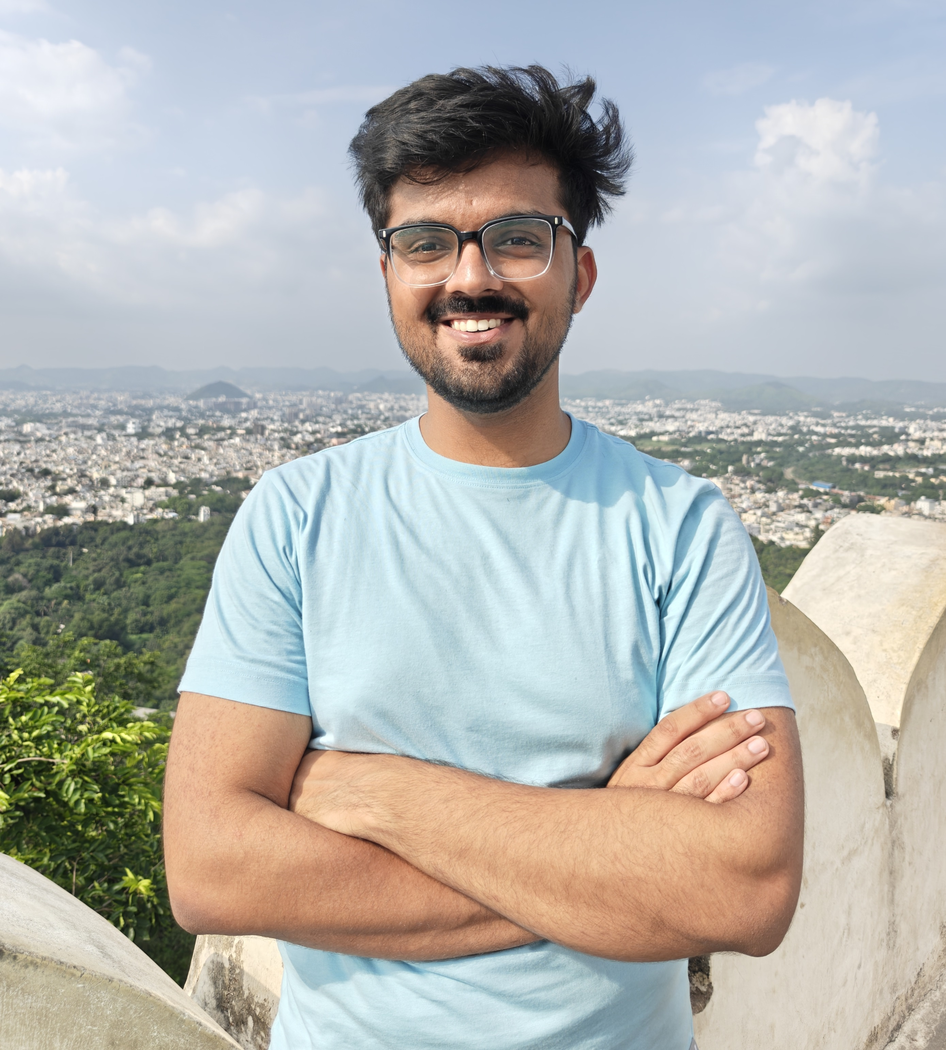
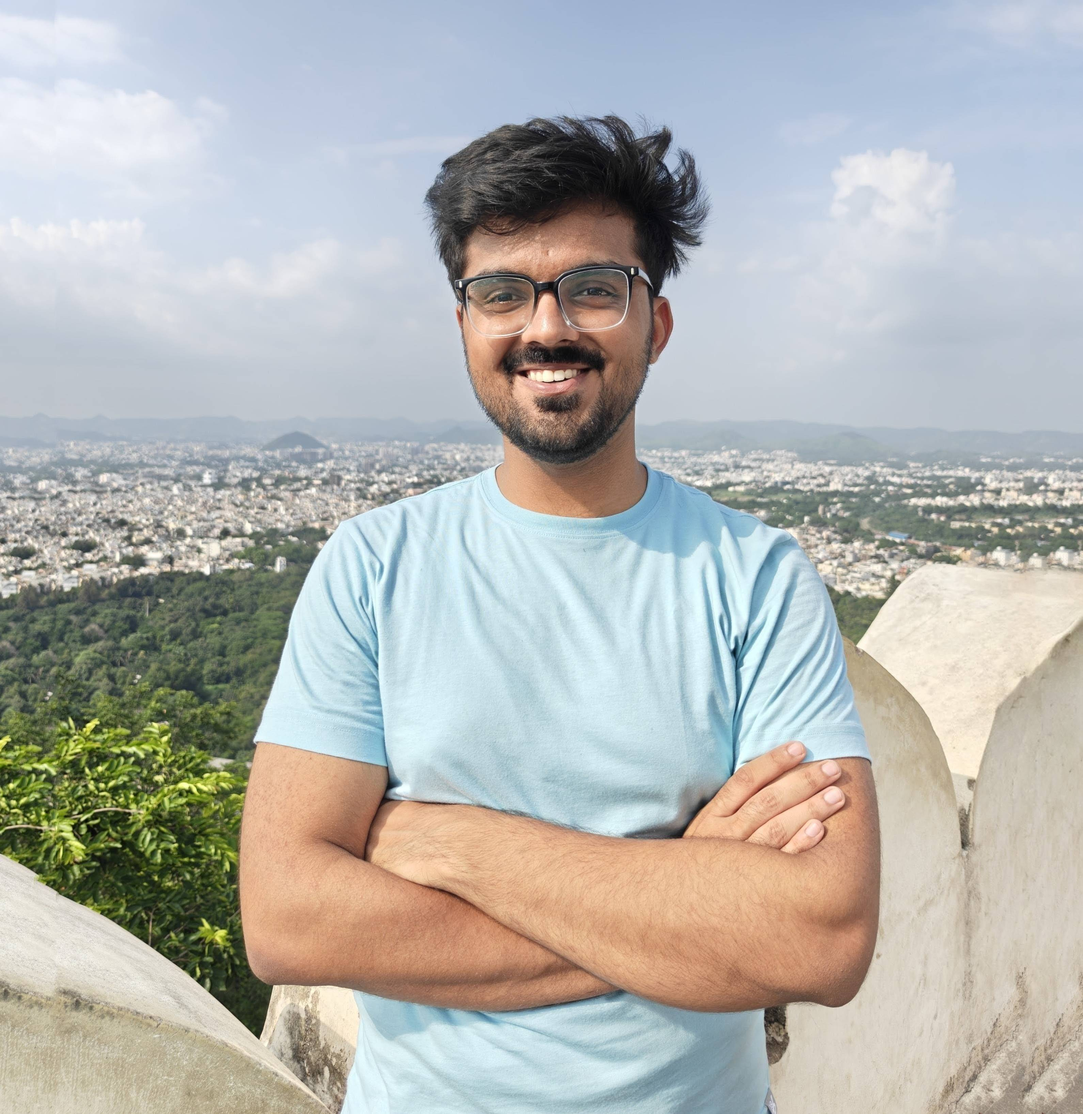
About me zoom out amount changed

diff --git a/components/AboutSection.js b/components/AboutSection.js
@@ -13,8 +13,8 @@ const AboutSection = () => (
                      alt="Your Name - Software Engineer" 
                      width={512}
                      height={512}
-                      className="rounded-full w-64 h-64 xl:w-[28rem] xl:h-[28rem] border-4 border-gray-700 object-cover object-top"
-                     style={{ objectPosition: 'center 30%' }}
+                     className="rounded-full w-64 h-64 xl:w-[28rem] xl:h-[28rem] border-4 border-gray-700 object-cover"
+                    style={{ objectPosition: 'center 50%' }}
                      priority
                  />
              </div>
